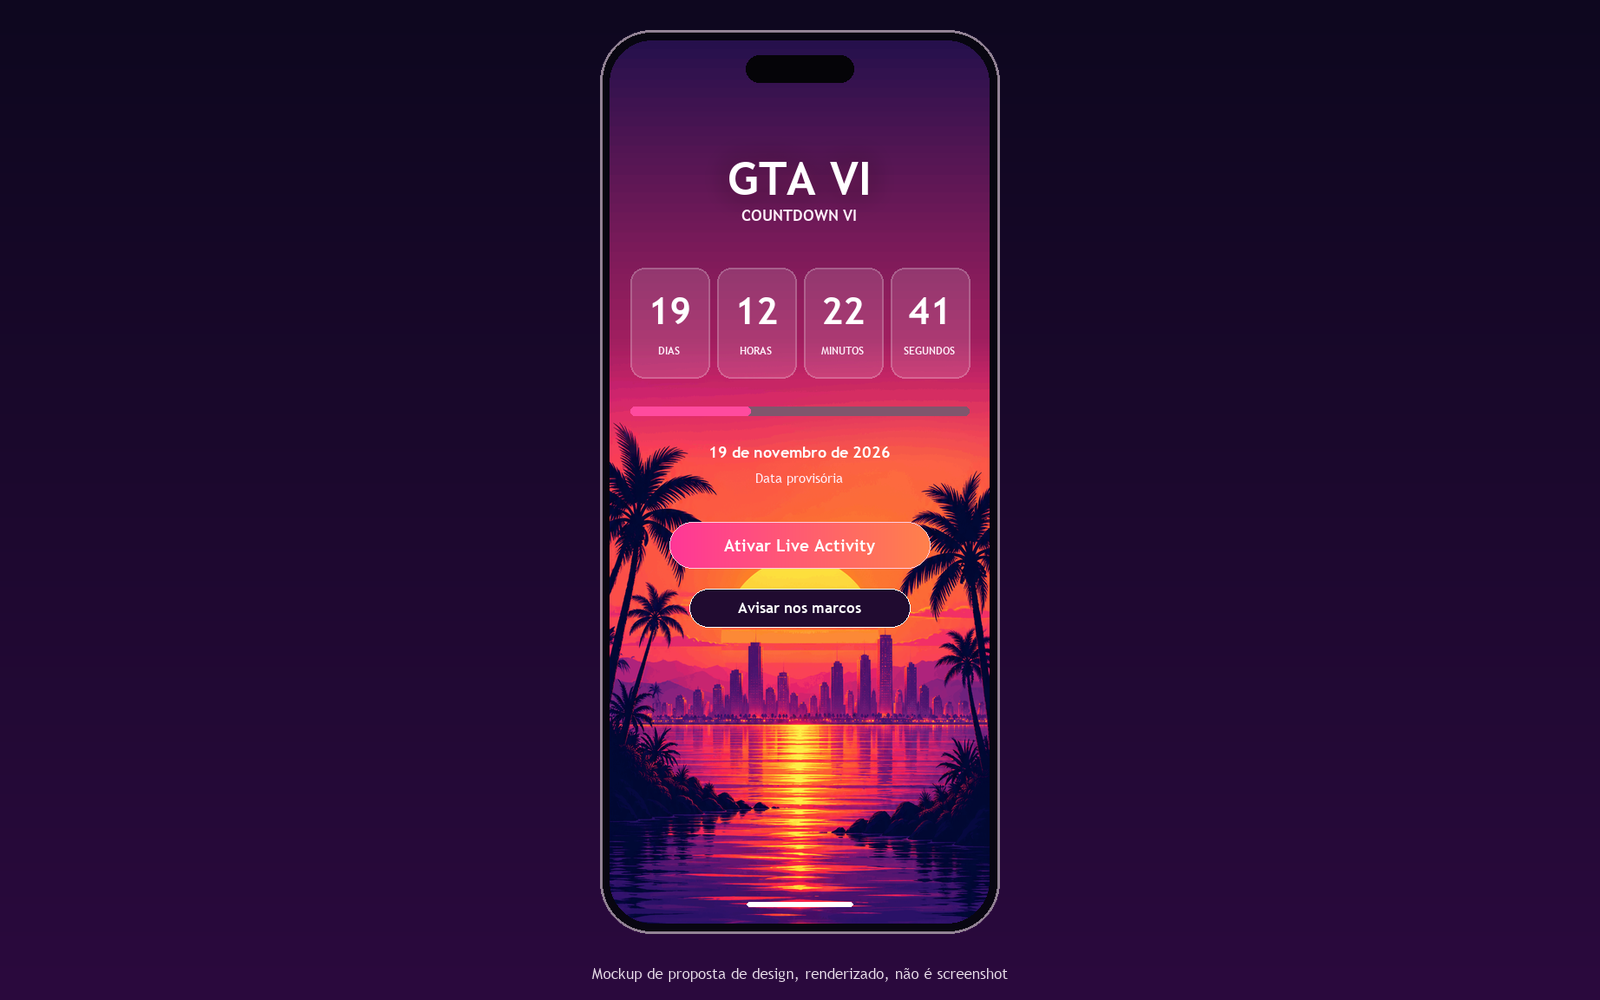
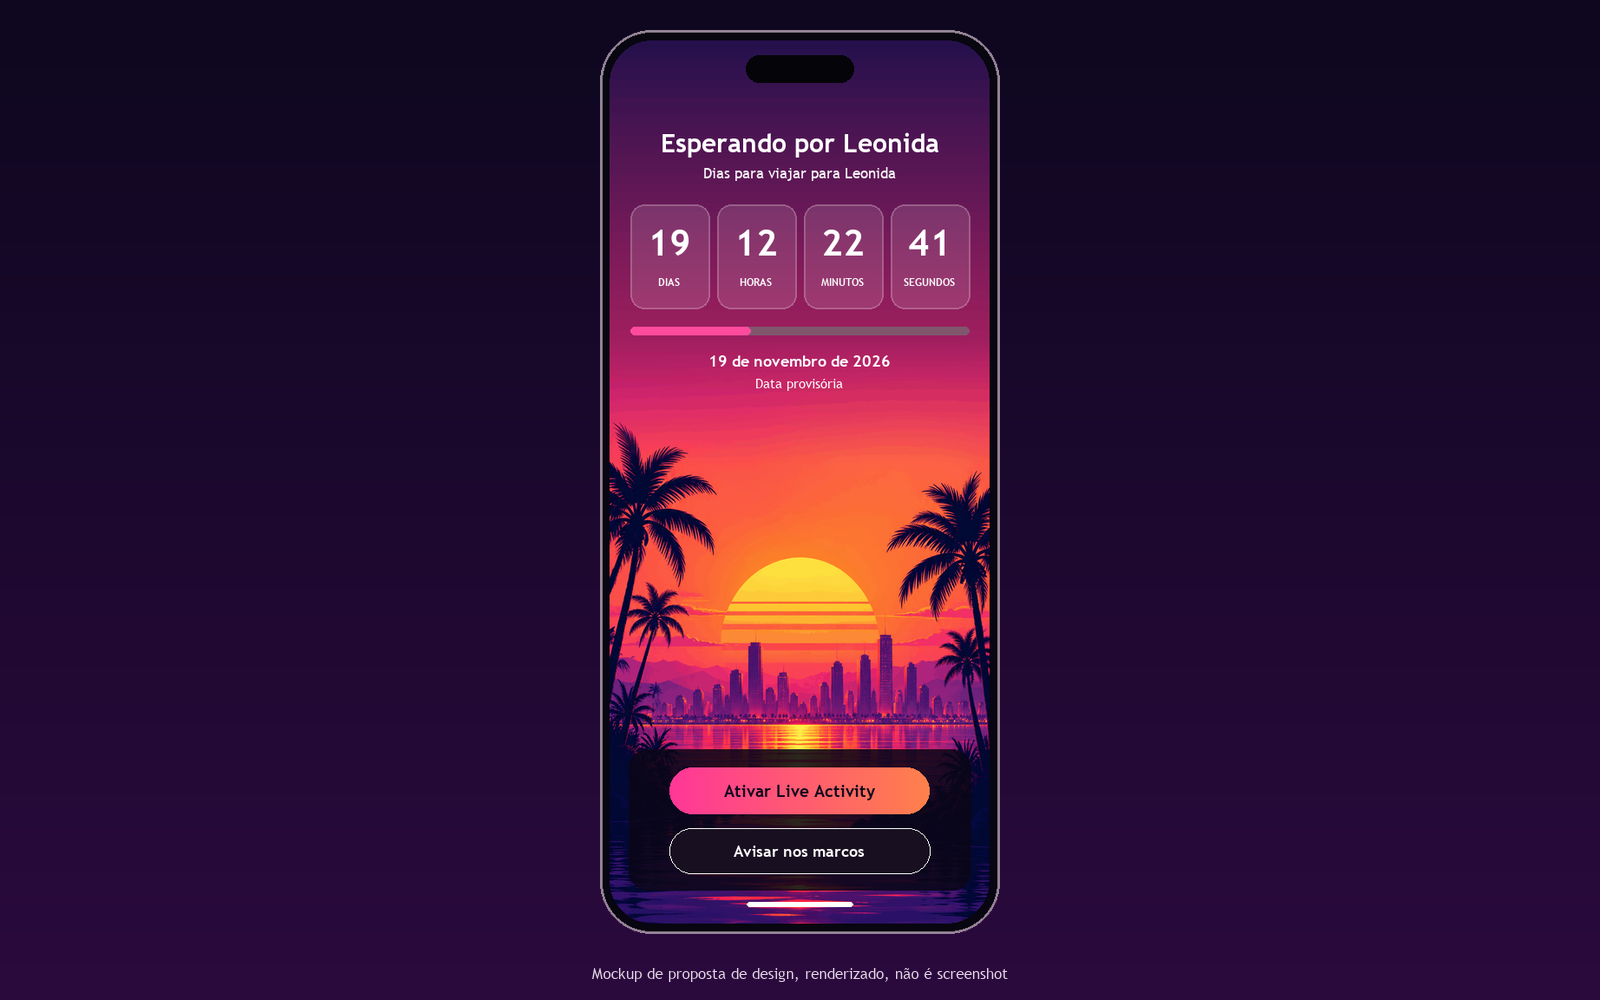
feat: refine design mockups and activity states

Changed region(s): [[0.375, 0.124, 0.625, 0.651], [0.375, 0.744, 0.625, 0.899]]

diff --git a/assets/design/DESIGN.md b/assets/design/DESIGN.md
@@ -30,12 +30,18 @@ Somente fonte de sistema iOS: `.system` com `.rounded` ou largura `.condensed` q
 
 Use `LinearGradient(stops:)` vertical com paradas 0 `#24104C`, 0.55 `#ED286B`, 1 `#FF8A4C`; botão com gradiente horizontal rosa/laranja. `Material.ultraThin` em `RoundedRectangle` com camada de cor e borda translúcida aproxima o vidro; material não garante um raio de blur fixo e depende do contexto. Respeitar Reduce Transparency, Dynamic Type e áreas seguras; medir legibilidade no aparelho. Usar o fundo retrato recomendado preservando proporção; usar a cena vetorial como fallback.
 
+## Layout de referência: 393 × 852 pt
+
+Origem no canto superior esquerdo da tela; dimensões aproximadas, ajustar safe areas e Dynamic Type. Título centrado em y=99 pt; subtítulo y=128 pt; cartões de x=22 a 371 pt, y=158 a 259 pt, com quatro colunas e espaço de 8 pt. Barra em y=276 pt; data y=309 pt; linha provisória y=331 pt. Área de arte livre no meio. Scrim escuro em x=20 a 373 pt e y=684 a 819 pt; botão principal x=62 a 331 pt, y=701 a 747 pt; secundário x=62 a 331 pt, y=760 a 804 pt. O scrim é preto arroxeado a 86%; os botões ficam sobre a água e fora do sol e das palmeiras. Texto do botão principal `#100A1C` sobre o gradiente claro; texto do secundário `#FFFFFF` sobre `#181021`. Contrastes calculados no gradiente do botão, sem antialiasing: mínimo superior a 4,5:1; confirmar com o material e cores finais no aparelho.
+
+`palm-glyph.svg` tem viewBox 24 × 24 e um caminho preenchido com `currentColor`; converter para um recurso vetorial compatível com o Xcode. A ilustração na Dynamic Island é uma representação aproximada do glifo.
+
 ## Anatomia
 
-- **Home:** título GTA VI, Countdown VI, quatro blocos (dias, horas, minutos, segundos), data e Data provisória, botões e cena inferior. **PROPOSTA:** barra limitada aos últimos 30 dias; fração `clamp(1 - segundosRestantes / (30 * 86400), 0, 1)`. **PROPOSTA:** botão Ativar Live Activity quando não houver activity ativa.
-- **Live Activity na Lock Screen:** título e data; timer automaticamente atualizado, com data provisória, sobre fundo escuro. Layout sujeito ao sistema.
-- **Dynamic Island compacta:** símbolo de palmeira abstrato e **PROPOSTA** `19d` estático, calculado ao criar/atualizar activity; não é timer automático e pode ficar defasado.
-- **Expandida:** título, data abreviada, timer e indicação provisória quando houver espaço. **Mínima:** glifo de palmeira proposto. O sistema determina dimensões e composição.
+- **Home:** título Esperando por Leonida, subtítulo Dias para viajar para Leonida, quatro blocos (dias, horas, minutos, segundos), data e Data provisória, botões e cena inferior. **PROPOSTA:** barra limitada aos últimos 30 dias; fração `clamp(1 - segundosRestantes / (30 * 86400), 0, 1)`. **PROPOSTA:** botão Ativar Live Activity quando não houver activity ativa.
+- **Live Activity na Lock Screen:** título e data; rótulo fixo N dias e timer automaticamente atualizado, com data provisória, sobre fundo escuro. Ao ficar stale, ocultar o rótulo de dias e manter o timer. D-016 também prevê um experimento temporário com `Text(releaseDate, style: .relative)`, cuja apresentação depende de validação em aparelho; ele não está ilustrado aqui. Layout sujeito ao sistema.
+- **Dynamic Island compacta:** símbolo de palmeira abstrato e **PROPOSTA** `19d` estático, calculado ao criar/atualizar activity; não é timer automático e desaparece quando a activity fica stale.
+- **Expandida:** título, data abreviada, rótulo fixo de dias, timer e indicação provisória quando houver espaço. **Mínima:** glifo de palmeira proposto. O sistema determina dimensões e composição.
 - **Widget comum:** small com título, dias e data provisória; medium acrescenta relógio; acessório retangular da Lock Screen usa título, dias e relógio monocromáticos. Widget e renderização efetiva dependem do iOS.
 
 ## Cena

diff --git a/assets/mockups/v2/README.md b/assets/mockups/v2/README.md
@@ -3,7 +3,8 @@
 Cada imagem é um mockup de proposta de design, renderizado, não é screenshot. O app atual ainda não apresenta este design.
 
 - `mockup-home.png`: home proposta.
-- `mockup-lockscreen.png`: Live Activity.
+- `mockup-lockscreen.png`: Live Activity com rótulo fixo de dias.
+- `mockup-lockscreen-stale.png`: activity stale, sem rótulo de dias; o timer permanece.
 - `mockup-dynamic-island.png`: compacta, expandida e mínima.
 - `mockup-widgets.png`: small, medium e acessório retangular.
 - `mockup-overview.png`: as quatro superfícies lado a lado.
@@ -14,3 +15,5 @@ Fonte renderizada: Trebuchet MS regular e bold, aproximação no Windows; o app 
 Contagem congelada em 30/10/2026 às 13:37:19 UTC-03 (16:37:19 UTC): 19 dias 12:22:41; timer 468:22:41. A data configurada é provisória, 19/11/2026 às 05:00 UTC.
 
 **PROPOSTAS:** barra de progresso dos últimos 30 dias, botão Ativar Live Activity quando inativa e `19d` estático na ilha compacta. Layouts dependem de aprovação e testes reais; sistema pode modificar materiais, dimensões e textos.
+
+Nos mockups de Live Activity, o rótulo de dias é fixo e some quando a activity fica stale (D-016); o instante congelado é o mesmo também na ilustração do estado stale. A ilha compacta oculta `19d` no estado stale. Nenhuma nova imagem foi gerada por IA nesta revisão.
